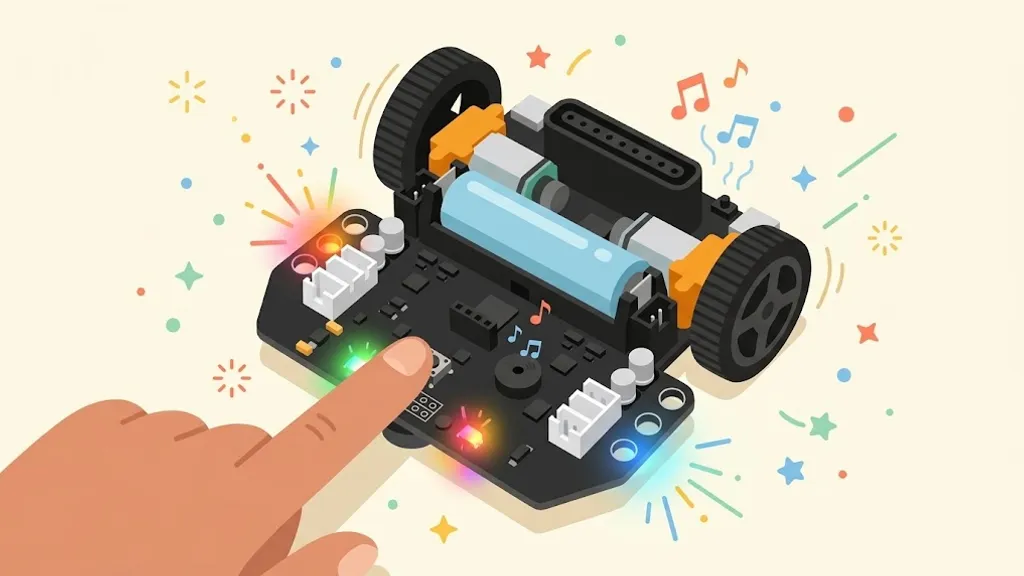
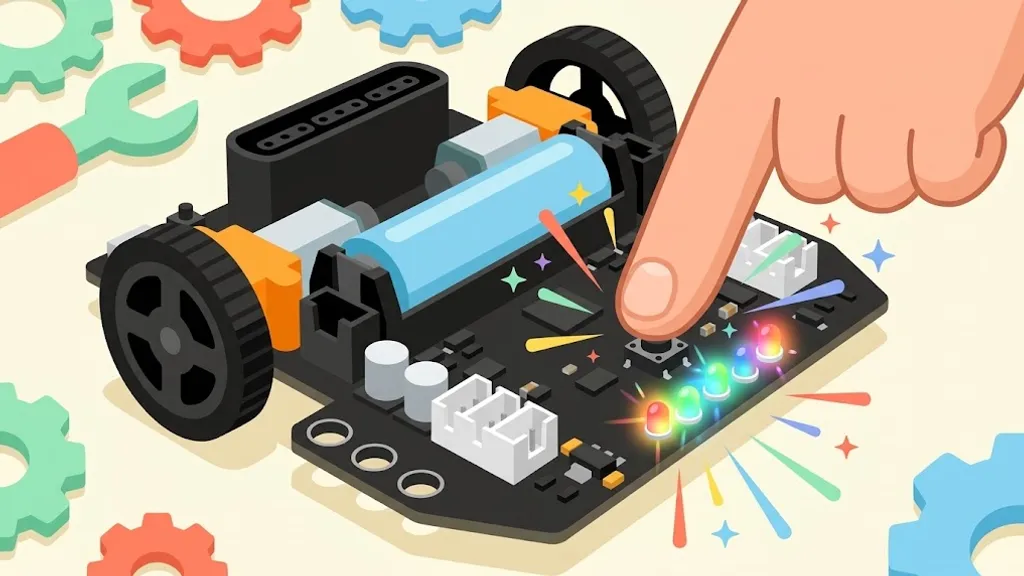
依實際硬體（JBC_Bot v5 原理圖）更正：沒有超音波與蜂鳴器、編碼器是霍爾式；雷射測距、OLED、伺服馬達、I2C 感測器標明選購；FAQ 補 Q12 套件內容並修正 Q11 少了結尾；重畫兩張有蜂鳴器的插圖

diff --git a/docs/.vitepress/theme/levels.js b/docs/.vitepress/theme/levels.js
@@ -15,7 +15,7 @@ export const LEVELS = [
   },
   {
     n: 2, path: '/guide/blocks/display', img: 'L2_display', stars: 1, time: '20 分鐘',
-    title: '專屬電子名牌', sub: '聲光與螢幕顯示',
+    title: '專屬電子名牌', sub: '彩燈與螢幕顯示',
     goal: '點亮紅燈，在螢幕上秀出 Hello 打招呼',
     need: ['MBC-jBot 小車', 'OLED 螢幕模組（選購）'],
   },
@@ -56,7 +56,7 @@ export const BANNERS = {
   '/api/setup': { img: 'api_setup', alt: '小車接上電腦與充電' },
   '/api/motor': { img: 'api_motor', alt: '車輪、馬達與編碼器' },
   '/api/sensor': { img: 'api_sensor', alt: '小車的循線與測距感測器' },
-  '/api/led-button': { img: 'api_led', alt: '彩燈、蜂鳴器與按鈕' },
+  '/api/led-button': { img: 'api_led', alt: '彩燈與按鈕' },
   '/api/ps2-servo': { img: 'api_ps2', alt: 'PS2 手把與伺服馬達' },
 };
 

diff --git a/docs/index.md b/docs/index.md
@@ -29,11 +29,11 @@ features:
   - title: 🎁 免安裝超好上手
     details: 打開 Chrome 或 Edge 就能拖積木、上傳到小車，不用安裝任何軟體；教室電腦不能上網時，也可以安裝 MBC 圖控編程 軟體再匯入 jBot 積木包！
   - title: 🧩 積木拖拉寫程式
-    details: 網頁版與 MBC 圖控編程 安裝版都能用，拖拉積木即可控制小車行駛特定公分、循線防撞、OLED 顯示與聲光互動，零基礎也能秒懂！
+    details: 網頁版與 MBC 圖控編程 安裝版都能用，拖拉積木即可控制小車行駛特定公分、循線與 RGB 彩燈互動；加裝選購模組還能做雷射防撞與 OLED 顯示，零基礎也能秒懂！
   - title: 🎯 雙編碼器馬達閉迴路控制
-    details: 配備高精度光電編碼器，精準回授輪胎圈數。指定距離與轉向角度不再失準，競賽與教學最穩定！
-  - title: ⚡ 豐富感測器與無限擴充
-    details: 內建紅外線循線感測器、超音波避障測距、RGB 炫彩氛圍燈與蜂鳴器，支援 OLED 與伺服馬達外接擴充。
+    details: 每顆馬達配備霍爾編碼器，精準回授輪胎圈數。指定距離與轉向角度不再失準，競賽與教學最穩定！
+  - title: ⚡ 內建感測器＋I2C 擴充
+    details: 基本套件內建雙路紅外線循線感測器、4 顆 RGB 彩燈與按鈕；車上預留 I2C 擴充插槽與 2 組伺服馬達接頭，可另購雷射測距、OLED 螢幕、伺服馬達與 MBC 感測器（不含在基本套件）。
   - title: 💻 Arduino C++ 無縫進階
     details: 提供完整的底層 C++ 類別庫封裝，國高中生與大專生可直接切換 Arduino IDE 進行演算法與 PID 控制深度研習。
 ---
@@ -53,8 +53,8 @@ features:
 
   ::: details Q1：MBC-jBot 適合幾歲的孩子或哪些年級學習？
   MBC-jBot 涵蓋從國小中年級到高中、大專的全學習階段：
-  - **國小中年級**：以 PS2 無線手把遙控、聲光音效互動為主，培養機器人興趣。
-  - **國小高年級 ~ 國中**：用網頁版或 MBC 圖控編程 積木學習程式邏輯、紅外線循線、超音波避障與公分距離控制。
+  - **國小中年級**：以 PS2 無線手把遙控、RGB 彩燈互動為主，培養機器人興趣。
+  - **國小高年級 ~ 國中**：用網頁版或 MBC 圖控編程 積木學習程式邏輯、紅外線循線與公分距離控制。
   - **高中與創客競賽**：銜接 Arduino C++ 開發手冊，練習中斷服務與閉迴路控制。
   :::
 
@@ -64,7 +64,7 @@ features:
 
   ::: details Q3：MBC-jBot 與市售普通 Arduino 自走車有何不同？
   市面上常見的自走車多採用普通減速馬達（無編碼器），行走距離會隨著電池電量降低而嚴重縮水。  
-  **MBC-jBot 配備雙路光電編碼器（閉迴路控制）**，能即時計算輪胎圈數與旋轉角度，真正做到「精確走 30 公分」與「原地轉向 90 度」，大幅提升課堂與科技競賽成功率！
+  **MBC-jBot 每顆馬達都配備霍爾編碼器（閉迴路控制）**，能即時計算輪胎圈數與旋轉角度，真正做到「精確走 30 公分」與「原地轉向 90 度」，大幅提升課堂與科技競賽成功率！
   :::
 
   ::: details Q4：學校老師、創客教室或營隊如何申請採購與師資培訓？

diff --git a/docs/api/index.md b/docs/api/index.md
@@ -4,6 +4,16 @@
 
 為了讓您在開發時能快速查找指令，我們整理了以下的 API 速查表。如需詳細的範例與說明，請點擊左側導覽列對應的章節。
 
+## 🧰 基本套件與選購擴充
+
+| | 項目 |
+| :--- | :--- |
+| ✅ **基本套件內建** | ATmega328P 主控（Arduino Uno 相容）、Type-C 連接埠、兩顆附**霍爾編碼器**的 N20 馬達、**雙路紅外線循線感測器**、**PS2 無線手把與接收器**、按鈕、**4 顆 RGB 彩燈**、電池電壓偵測、18650 鋰電池與 USB 充電 |
+| ➕ **選購擴充**（不含在基本套件） | 車上預留 **I2C 擴充插槽**與 **2 組伺服馬達接頭**，可以接 VL53L0X 雷射測距、OLED 螢幕、伺服馬達，以及 MBC I2C 感測器。見 [加購專區](/guide/store) |
+| ❌ **沒有** | 超音波感測器、蜂鳴器（小車不能發出聲音） |
+
+下表中標「選購」的函式，要接上對應的模組才會有作用。
+
 ---
 
 ## 🚀 系統與初始化
@@ -24,9 +34,9 @@
 | 函式名稱 | 用途說明 | 參數說明 |
 | :--- | :--- | :--- |
 | `Bot.readLineSensor(index)` | 讀取底部循線感測器的數值 (黑白反射率)。 | `index`: `SENSOR_L`, `SENSOR_R`<br>回傳值越大代表顏色越深 |
-| `Bot.getDistance()` | 讀取前方雷射測距感測器 (VL53L0X) 的距離。 | 回傳 `uint16_t` (單位：公釐 mm) |
+| `Bot.getDistance()` | **選購**：讀取前方雷射測距感測器 (VL53L0X) 的距離（沒接模組時回傳 65535）。 | 回傳 `uint16_t` (單位：公釐 mm) |
 
-## 🌈 聲光與互動
+## 🌈 彩燈與按鈕
 | 函式名稱 | 用途說明 | 參數說明 |
 | :--- | :--- | :--- |
 | `Bot.setLED(index, r, g, b)` | 設定指定位置的 RGB LED 顏色。 | `index`: `0` (左), `1` (右), `2` (按鈕), `3` (後方)<br>`r, g, b`: `0` ~ `255` |
@@ -39,4 +49,4 @@
 | `Bot.isPS2Connected()` | 檢查 PS2 接收器是否連接成功。 | 回傳 `bool` (`true` 代表已連接) |
 | `Bot.isPS2ButtonPressed(mask)` | 檢查遙控器特定按鍵是否被按下。 | `mask`: 如 `PSB_CROSS`, `PSB_PAD_UP` 等 |
 | `Bot.getPS2Stick(stick)` | 讀取遙控器搖桿的類比推動量 (0~255)。 | `stick`: `PSS_LX`, `PSS_LY`, `PSS_RX`, `PSS_RY` |
-| `Bot.setServo(index, angle)` | 控制外接的伺服馬達轉動至指定角度。 | `index`: `SERVO_1`, `SERVO_2`<br>`angle`: `0` ~ `180` |
+| `Bot.setServo(index, angle)` | **選購**：控制外接的伺服馬達轉動至指定角度。 | `index`: `SERVO_1`, `SERVO_2`<br>`angle`: `0` ~ `180` |

diff --git a/docs/guide/blocks/display.md b/docs/guide/blocks/display.md
@@ -1,4 +1,4 @@
-# 2. 聲光與螢幕顯示
+# 2. 彩燈與螢幕顯示
 
 MBC-jBot 不僅能跑，還能透過炫麗的 RGB 燈光與 OLED 螢幕與您互動！
 
@@ -16,7 +16,7 @@ MBC-jBot 不僅能跑，還能透過炫麗的 RGB 燈光與 OLED 螢幕與您互
 
 請參考下方的積木組合：
 
-![聲光與螢幕顯示範例](/images/web/lesson2-display.webp)
+![彩燈與螢幕顯示範例](/images/web/lesson2-display.webp)
 
 > 📥 <a href="/example/web/lesson2-display.jbot" download>下載範例檔（lesson2-display.jbot）</a>，在[網頁版](https://jbot-block-ide.mbcrobot.workers.dev)按「**開啟檔案**」打開。網頁版的「範例」選單也有「OLED 電子名牌」可以直接試。
 
@@ -33,7 +33,7 @@ MBC-jBot 不僅能跑，還能透過炫麗的 RGB 燈光與 OLED 螢幕與您互
 ::: details 💾 安裝版（MBC 圖控編程）積木畫法
 安裝版的 jBot 積木和程式結構（「**開機時執行一次**」＋「**主迴圈 (一直重複)**」）都跟網頁版一樣，只是積木的顏色和外觀略有不同。還沒安裝的話，請先看 [安裝版：MBC 圖控編程＋jBot 積木](/guide/graphic-programming)。
 
-![聲光與螢幕顯示範例（安裝版）](/images/desktop/lesson2-display.webp)
+![彩燈與螢幕顯示範例（安裝版）](/images/desktop/lesson2-display.webp)
 
 > 📥 <a href="/example/desktop/lesson2-display.abp" download>下載安裝版範例檔（lesson2-display.abp）</a>，在軟體按工具列的 📂 打開。
 :::

diff --git a/docs/api/setup.md b/docs/api/setup.md
@@ -68,4 +68,4 @@ uint16_t voltage = Bot.getBatteryVoltage(); // 回傳轉換後的電壓數值
 > **電壓量測注意事項**
 > 如果您在使用 USB 線連接電腦時呼叫這個函式，讀取到的數值會是 **USB 的供電電壓**（通常在 5V 左右），而不是真實的電池電壓！
 > 
-> 若您想準確查看電池的剩餘電壓數值，建議您**不要連接 USB 電源**，並將這個電壓數值透過 **OLED 螢幕** 顯示出來觀察。
+> 若您想準確查看電池的剩餘電壓數值，建議您**不要連接 USB 電源**，並將這個電壓數值透過 **OLED 螢幕**（選購模組）顯示出來觀察。

diff --git a/docs/api/ps2-servo.md b/docs/api/ps2-servo.md
@@ -74,7 +74,7 @@ Bot.setMotors(motorSpeed, motorSpeed);
 
 ## 伺服馬達 (Servo) 控制
 
-小車主機板上預留了兩組伺服馬達插座 (`SERVO_1` 與 `SERVO_2`)，可用來控制超音波雲台或是小巧的機械夾爪。
+小車主機板上預留了兩組伺服馬達插座 (`SERVO_1` 與 `SERVO_2`)，可用來控制感測器雲台或是小巧的機械夾爪（伺服馬達不含在基本套件，需另外加購）。
 
 ### 設定馬達角度 (`setServo`)
 

diff --git a/docs/api/led-button.md b/docs/api/led-button.md
@@ -1,4 +1,4 @@
-# 聲光與互動
+# 彩燈與按鈕
 
 MBC-jBot 除了能跑能偵測，還具備了豐富的視覺與觸覺回饋機制。
 
